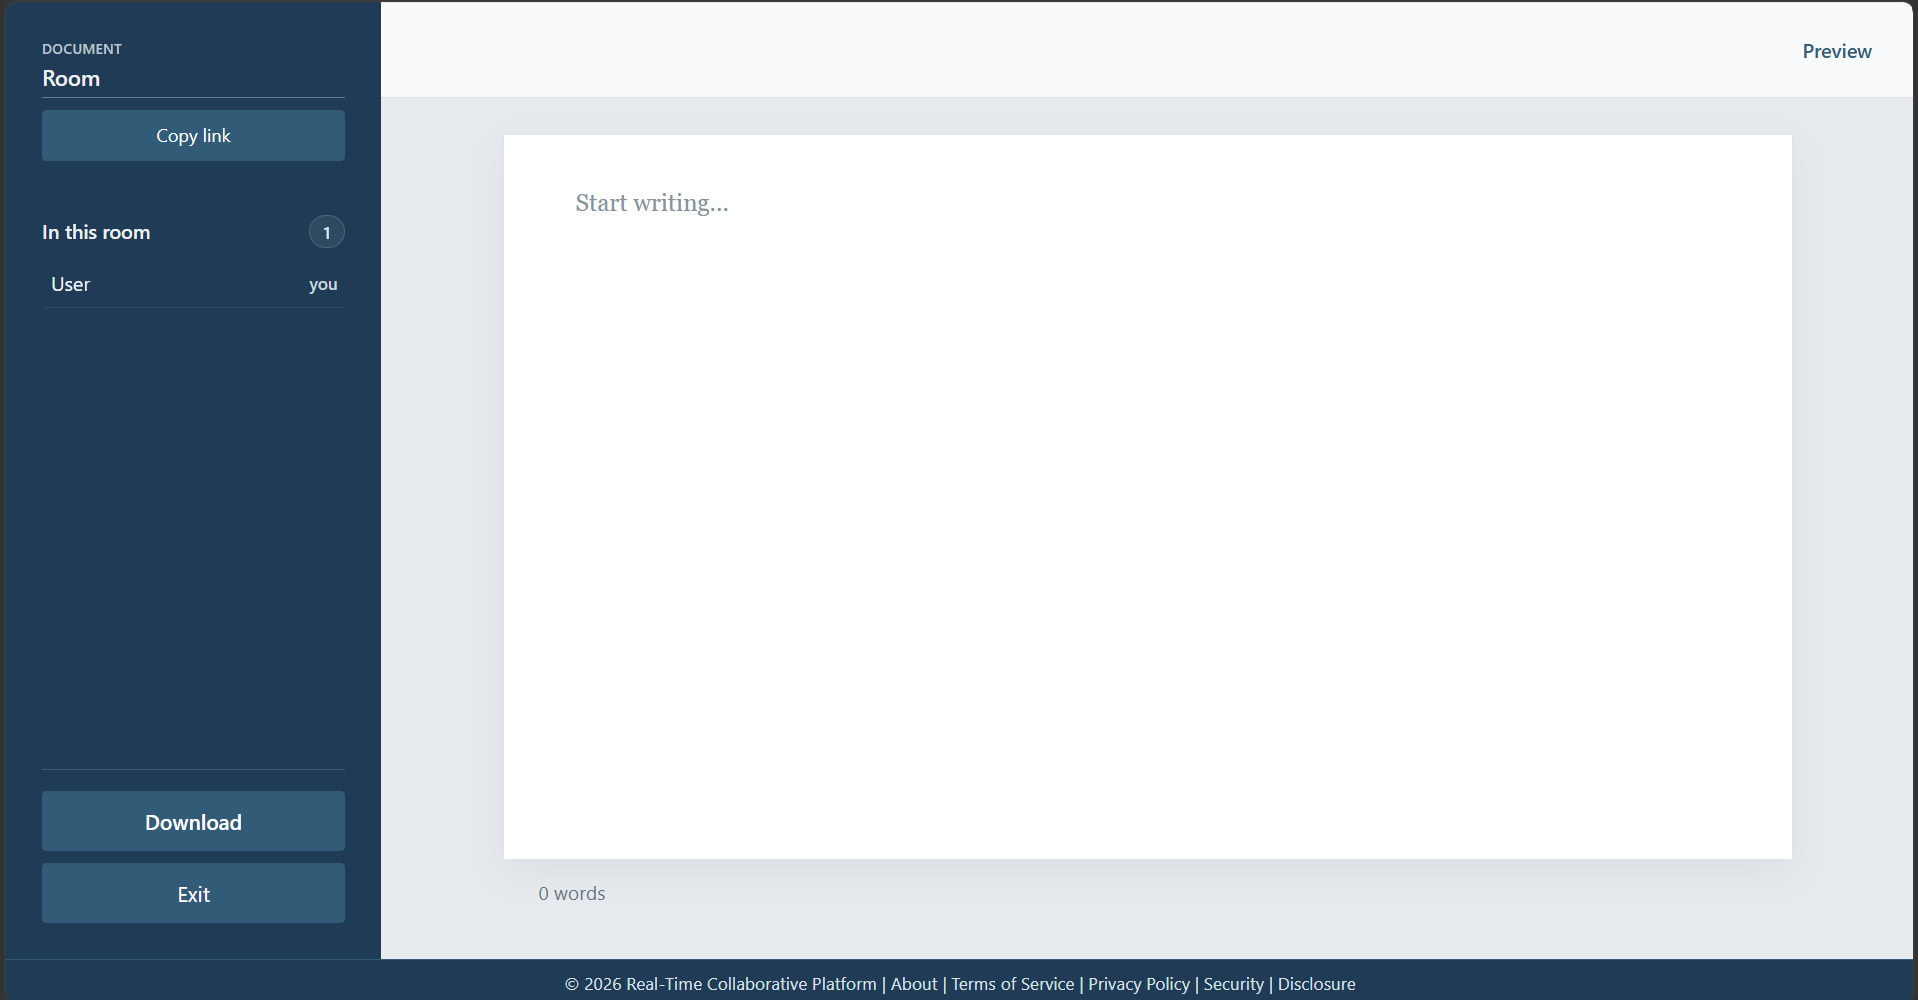
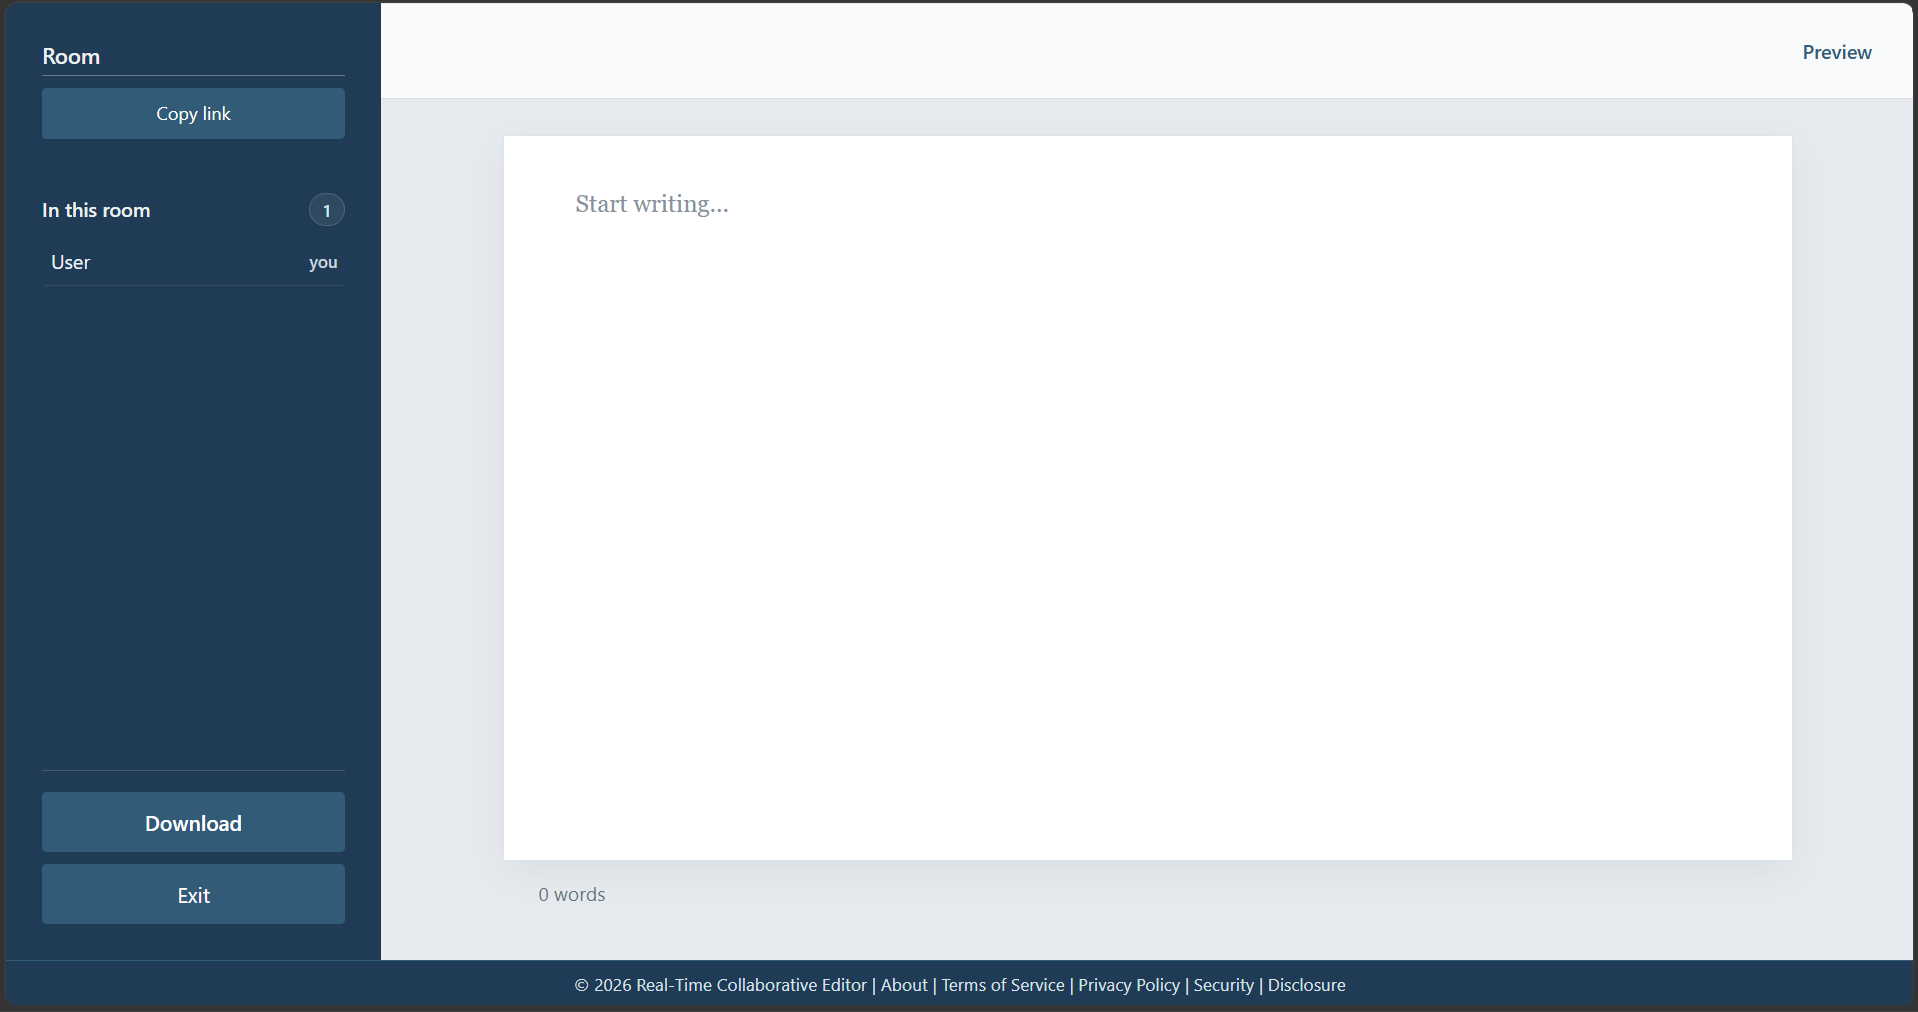
update user interface

diff --git a/frontend/dist/assets/index-wc3tE3-Q.js b/frontend/dist/assets/index-wc3tE3-Q.js
@@ -109,4 +109,4 @@ ${n.toString()}`)};class RI{constructor(t){this.patterns=[],this.$state=t}if(t,n
         table { border-collapse: collapse; width: 100%; }
         th, td { border: 1px solid #b8bec4; padding: .4em .6em; text-align: left; }
         img { max-width: 100%; }
-      </style></head><body>${Ve}</body></html>`),he.document.close()},Kt=M=>{Ee.current&&(Ee.current.style.transform=`translateY(-${M.currentTarget.scrollTop}px)`)},vn=M=>{O.current&&P0(O.current,"title",M.target.value)},ir=async()=>{const M=new URL(window.location.href);M.searchParams.set("room",i);try{await navigator.clipboard.writeText(M.toString()),D("Link copied")}catch{D("Copy unavailable")}window.setTimeout(()=>D(""),2e3)};return e?$.jsxs("div",{className:"editor-container",children:[$.jsxs("div",{className:"sidebar",children:[$.jsxs("div",{className:"sidebar-header",children:[$.jsx("div",{className:"room-info",children:$.jsxs("div",{children:[$.jsx("p",{className:"eyebrow",children:"DOCUMENT"}),$.jsx("input",{className:"sidebar-title-input",value:u,onChange:vn,"aria-label":"Document title",placeholder:i,maxLength:120,disabled:!n})]})}),$.jsx("button",{className:"share-button",onClick:ir,children:S||"Copy link"})]}),$.jsxs("div",{className:"presence-heading",children:[$.jsx("h3",{children:"In this room"}),$.jsx("span",{children:h.length})]}),$.jsx("ul",{className:"user-list",children:h.map(({socketId:M,userName:he})=>$.jsxs("li",{children:[$.jsx("span",{className:"presence-name",children:he}),M===Re.id&&$.jsx("span",{className:"you-label",children:"you"})]},M))}),$.jsx("p",{className:"typing-indicator","aria-live":"polite",children:_}),$.jsxs("div",{className:"sidebar-bottom-actions",children:[$.jsx("button",{className:"download-document-button",onClick:fe,disabled:!n,children:"Download"}),$.jsx("button",{className:"leave-button",onClick:v,children:"Exit"})]})]}),$.jsxs("div",{className:"editor-wrapper",children:[$.jsx("header",{className:"document-toolbar",children:$.jsxs("div",{className:"document-actions",children:[$.jsx("button",{className:"preview-toggle-button","aria-pressed":E,onClick:()=>T(M=>!M),children:E?"Edit":"Preview"}),$.jsx("span",{className:"save-status visually-hidden","aria-live":"polite",children:A})]})}),$.jsxs("main",{className:"document-page",ref:B,children:[E?$.jsx("article",{className:"markdown-preview","aria-label":"Markdown preview",children:c?$.jsx(C0,{remarkPlugins:[L0],children:c}):$.jsx("p",{className:"preview-empty",children:"Nothing to preview yet."})}):$.jsxs("div",{className:"document-editor",style:x?{height:`${x}px`}:void 0,children:[u$({content:c,cursors:p,sharedDoc:O.current,localSocketId:Re.id,contentRef:Ee}),$.jsx("textarea",{className:"document-canvas",ref:_e,value:c,onChange:Le,onSelect:M=>wt(M.currentTarget.selectionStart,M.currentTarget.selectionEnd),onKeyUp:M=>wt(M.currentTarget.selectionStart,M.currentTarget.selectionEnd),onScroll:Kt,placeholder:"Start writing...","aria-label":"Shared document content",spellCheck:"true",disabled:!n}),$.jsx("div",{className:"document-measure",ref:P,"aria-hidden":"true",children:c})]}),$.jsxs("footer",{className:"document-footer",children:[$.jsxs("span",{children:[c.trim()?c.trim().split(/\s+/).length:0," words"]}),$.jsx("span",{children:_})]})]})]}),$.jsx("footer",{className:"app-footer",children:$.jsx("span",{children:"© 2026 Real-Time Collaborative Platform | About | Terms of Service | Privacy Policy | Security | Disclosure"})})]}):$.jsxs("div",{className:"join-container",children:[$.jsxs("header",{className:"join-topbar",children:[$.jsx("a",{className:"join-brand",href:"/","aria-label":"Real-Time Collaborative Platform home",children:$.jsx("span",{children:"Real-Time Collaborative Platform"})}),$.jsx("a",{className:"join-contact",href:"",children:"Contact"})]}),$.jsxs("main",{className:"join-content",children:[$.jsxs("section",{className:"join-intro","aria-labelledby":"join-title",children:[$.jsxs("h1",{id:"join-title",className:"join-title",children:["A platform for",$.jsx("br",{}),"teams to create."]}),$.jsx("p",{className:"join-description",children:"Online platform where you can write, edit, and save documents with your team."})]}),$.jsxs("form",{className:"join-form",onSubmit:M=>{M.preventDefault(),ne()},children:[$.jsx("h2",{children:"Enter room"}),$.jsx("label",{className:"visually-hidden",htmlFor:"room-name",children:"Room"}),$.jsx("input",{id:"room-name",type:"text",placeholder:"Room",value:i,onChange:M=>l(M.target.value),autoComplete:"off"}),$.jsx("label",{className:"visually-hidden",htmlFor:"user-name",children:"Name"}),$.jsx("input",{id:"user-name",type:"text",placeholder:"Name",value:o,onChange:M=>s(M.target.value),autoComplete:"name"}),m&&$.jsx("p",{role:"alert",children:m}),$.jsx("button",{type:"submit",children:"Enter"})]})]}),$.jsx("footer",{className:"join-footer",children:$.jsx("span",{children:"© 2026 Real-Time Collaborative Platform | About | Terms of Service | Privacy Policy | Security | Disclosure"})})]})};Yk(document.getElementById("root")).render($.jsx(se.StrictMode,{children:$.jsx(a$,{})}));
+      </style></head><body>${Ve}</body></html>`),he.document.close()},Kt=M=>{Ee.current&&(Ee.current.style.transform=`translateY(-${M.currentTarget.scrollTop}px)`)},vn=M=>{O.current&&P0(O.current,"title",M.target.value)},ir=async()=>{const M=new URL(window.location.href);M.searchParams.set("room",i);try{await navigator.clipboard.writeText(M.toString()),D("Link copied")}catch{D("Copy unavailable")}window.setTimeout(()=>D(""),2e3)};return e?$.jsxs("div",{className:"editor-container",children:[$.jsxs("div",{className:"sidebar",children:[$.jsxs("div",{className:"sidebar-header",children:[$.jsx("div",{className:"room-info",children:$.jsx("div",{children:$.jsx("input",{className:"sidebar-title-input",value:u,onChange:vn,"aria-label":"Document title",placeholder:i,maxLength:120,disabled:!n})})}),$.jsx("button",{className:"share-button",onClick:ir,children:S||"Copy link"})]}),$.jsxs("div",{className:"presence-heading",children:[$.jsx("h3",{children:"In this room"}),$.jsx("span",{children:h.length})]}),$.jsx("ul",{className:"user-list",children:h.map(({socketId:M,userName:he})=>$.jsxs("li",{children:[$.jsx("span",{className:"presence-name",children:he}),M===Re.id&&$.jsx("span",{className:"you-label",children:"you"})]},M))}),$.jsx("p",{className:"typing-indicator","aria-live":"polite",children:_}),$.jsxs("div",{className:"sidebar-bottom-actions",children:[$.jsx("button",{className:"download-document-button",onClick:fe,disabled:!n,children:"Download"}),$.jsx("button",{className:"leave-button",onClick:v,children:"Exit"})]})]}),$.jsxs("div",{className:"editor-wrapper",children:[$.jsx("header",{className:"document-toolbar",children:$.jsxs("div",{className:"document-actions",children:[$.jsx("button",{className:"preview-toggle-button","aria-pressed":E,onClick:()=>T(M=>!M),children:E?"Edit":"Preview"}),$.jsx("span",{className:"save-status visually-hidden","aria-live":"polite",children:A})]})}),$.jsxs("main",{className:"document-page",ref:B,children:[E?$.jsx("article",{className:"markdown-preview","aria-label":"Markdown preview",children:c?$.jsx(C0,{remarkPlugins:[L0],children:c}):$.jsx("p",{className:"preview-empty",children:"Nothing to preview yet."})}):$.jsxs("div",{className:"document-editor",style:x?{height:`${x}px`}:void 0,children:[u$({content:c,cursors:p,sharedDoc:O.current,localSocketId:Re.id,contentRef:Ee}),$.jsx("textarea",{className:"document-canvas",ref:_e,value:c,onChange:Le,onSelect:M=>wt(M.currentTarget.selectionStart,M.currentTarget.selectionEnd),onKeyUp:M=>wt(M.currentTarget.selectionStart,M.currentTarget.selectionEnd),onScroll:Kt,placeholder:"Start writing...","aria-label":"Shared document content",spellCheck:"true",disabled:!n}),$.jsx("div",{className:"document-measure",ref:P,"aria-hidden":"true",children:c})]}),$.jsxs("footer",{className:"document-footer",children:[$.jsxs("span",{children:[c.trim()?c.trim().split(/\s+/).length:0," words"]}),$.jsx("span",{children:_})]})]})]}),$.jsx("footer",{className:"app-footer",children:$.jsx("span",{children:"© 2026 Real-Time Collaborative Editor | About | Terms of Service | Privacy Policy | Security | Disclosure"})})]}):$.jsxs("div",{className:"join-container",children:[$.jsxs("header",{className:"join-topbar",children:[$.jsx("a",{className:"join-brand",href:"/","aria-label":"Real-Time Collaborative Editor home",children:$.jsx("span",{children:"Real-Time Collaborative Editor"})}),$.jsx("a",{className:"join-contact",href:"",children:"Contact"})]}),$.jsxs("main",{className:"join-content",children:[$.jsxs("section",{className:"join-intro","aria-labelledby":"join-title",children:[$.jsxs("h1",{id:"join-title",className:"join-title",children:["An editor for",$.jsx("br",{}),"teams to document."]}),$.jsx("p",{className:"join-description",children:"Where you can write and edit documents with your team."})]}),$.jsxs("form",{className:"join-form",onSubmit:M=>{M.preventDefault(),ne()},children:[$.jsx("h2",{children:"Enter room"}),$.jsx("label",{className:"visually-hidden",htmlFor:"room-name",children:"Room"}),$.jsx("input",{id:"room-name",type:"text",placeholder:"Room",value:i,onChange:M=>l(M.target.value),autoComplete:"off"}),$.jsx("label",{className:"visually-hidden",htmlFor:"user-name",children:"Name"}),$.jsx("input",{id:"user-name",type:"text",placeholder:"Name",value:o,onChange:M=>s(M.target.value),autoComplete:"name"}),m&&$.jsx("p",{role:"alert",children:m}),$.jsx("button",{type:"submit",children:"Enter"})]})]}),$.jsx("footer",{className:"join-footer",children:$.jsx("span",{children:"© 2026 Real-Time Collaborative Editor | About | Terms of Service | Privacy Policy | Security | Disclosure"})})]})};Yk(document.getElementById("root")).render($.jsx(se.StrictMode,{children:$.jsx(a$,{})}));

diff --git a/frontend/src/App.jsx b/frontend/src/App.jsx
@@ -409,10 +409,10 @@ const App = () => {
     return (
       <div className="join-container">
         <header className="join-topbar">
-          <a className="join-brand" href="/" aria-label="Real-Time Collaborative Platform home">
-            <span>Real-Time Collaborative Platform</span>
+          <a className="join-brand" href="/" aria-label="Real-Time Collaborative Editor home">
+            <span>Real-Time Collaborative Editor</span>
           </a>
-          <a className="join-contact" href="">
+          <a className="join-contact" href="https://github.com/mohamedaradaib/Real-Time-Collaborative-Editor">
             Contact
           </a>
         </header>
@@ -420,9 +420,9 @@ const App = () => {
         <main className="join-content">
           <section className="join-intro" aria-labelledby="join-title">
             <h1 id="join-title" className="join-title">
-                A platform for
+                An editor for
                 <br />
-                teams to create.
+                teams to document.
             </h1>
             <p className="join-description">
               Where you can write and edit documents with your team.
@@ -436,7 +436,7 @@ const App = () => {
               joinRoom();
             }}
           >
-            <h2>Enter room</h2>
+            <h2>Welcome</h2>
             <label className="visually-hidden" htmlFor="room-name">Room</label>
             <input
               id="room-name"
@@ -461,7 +461,7 @@ const App = () => {
         </main>
 
         <footer className="join-footer">
-          <span>© 2026 Real-Time Collaborative Platform | About | Terms of Service | Privacy Policy | Security | Disclosure</span>
+          <span>© 2026 Real-Time Collaborative Editor | About | Terms of Service | Privacy Policy | Security | Disclosure</span>
         </footer>
       </div>
     );
@@ -473,7 +473,6 @@ const App = () => {
         <div className="sidebar-header">
           <div className="room-info">
             <div>
-              <p className="eyebrow">DOCUMENT</p>
               <input
                 className="sidebar-title-input"
                 value={title}
@@ -579,7 +578,7 @@ const App = () => {
         </main>
       </div>
       <footer className="app-footer">
-        <span>© 2026 Real-Time Collaborative Platform | About | Terms of Service | Privacy Policy | Security | Disclosure</span>
+        <span>© 2026 Real-Time Collaborative Editor | About | Terms of Service | Privacy Policy | Security | Disclosure</span>
       </footer>
     </div>
   );

diff --git a/frontend/dist/index.html b/frontend/dist/index.html
@@ -3,8 +3,8 @@
   <head>
     <meta charset="UTF-8" />
     <meta name="viewport" content="width=device-width, initial-scale=1.0" />
-    <title>Real-Time Collaborative Platform</title>
-    <script type="module" crossorigin src="/assets/index-C0bPQX9o.js"></script>
+    <title>Real-Time Collaborative Editor</title>
+    <script type="module" crossorigin src="/assets/index-wc3tE3-Q.js"></script>
     <link rel="stylesheet" crossorigin href="/assets/index-EruSX3Er.css">
   </head>
   <body>  

diff --git a/frontend/index.html b/frontend/index.html
@@ -3,7 +3,7 @@
   <head>
     <meta charset="UTF-8" />
     <meta name="viewport" content="width=device-width, initial-scale=1.0" />
-    <title>Real-Time Collaborative Platform</title>
+    <title>Real-Time Collaborative Editor</title>
   </head>
   <body>  
     <div id="root"></div>

diff --git a/README.md b/README.md
@@ -1,13 +1,13 @@
-# Real-Time Collaborative Platform
+# Real-Time Collaborative Editor
 
-Real time browser-based collaborative platform where multiple users can join a room and text, edit, and review documents together in real time.
+A real-time collaborative editor designed for multi-user collaboration and seamless team workflows.
 
 ## Features
-- Real-time collaborative workspace with concurrent changes merged automatically
-- Room-based sessions with active user presence, typing indicators, live cursors, and selection highlights
-- Markdown writing and rendered preview with GitHub-flavored syntax
-- Shared document titles, automatic persistence, PDF export, word count, and copyable room links
-- Persistent document titles and content for each room
+- Live Markdown editing with concurrent changes merged automatically
+- Room-based collaboration with participant presence, typing indicators, live cursors, and selection highlights
+- Shared document titles and content, automatically saved for each room
+- GitHub-flavored Markdown preview, word count, and PDF export through the browser's print dialog
+- Copyable room links for inviting collaborators
 
 ## Tech Stack
 - JavaScript
@@ -23,7 +23,7 @@ Real time browser-based collaborative platform where multiple users can join a r
 - React Markdown
 
 ## How It Works
-The Markdown writing canvas and title are bound to a shared Yjs document. Yjs merges concurrent edits, and Socket.IO synchronizes document updates and room presence between users. Relative cursor positions and selections are broadcast to room members and removed when a user leaves; cursor presence is temporary and is not stored. The backend stores each room's title and content in SQLite and automatically saves edits, acknowledging writes so the editor can show save status. The sidebar can export the current document as a PDF through the browser's print dialog. Existing rooms are migrated from their saved source code without losing text. Copying a room link includes the room name, which is prefilled for invitees. Rooms do not require sign-in, so anyone who knows a room name can join; do not use private or sensitive content, and only deploy this application where you trust the users who can access it.
+The document title and Markdown canvas are bound to a shared Yjs document. Yjs merges concurrent edits, while Socket.IO synchronizes document updates and room presence. The sidebar shows the editable document title, participants, and sharing controls without a separate “DOCUMENT” heading. The backend saves each room's title and content in SQLite. Cursor positions, selections, and typing status are temporary and are removed when collaborators leave. The Markdown preview supports GitHub-flavored syntax, and PDF export uses the browser's print dialog. Copying a room link includes the room name for invitees. Rooms do not require sign-in, so anyone who knows a room name can join; do not use private or sensitive content, and only deploy this application where you trust the users who can access it.
 
 ## Getting Started
 ### Prerequisites
@@ -57,10 +57,10 @@ npm start
 npm --prefix frontend run dev -- --host 0.0.0.0
 ```
 
-Then open the vite localhost url `http://localhost:5173`
+Open the Vite localhost url `http://localhost:5173`
 
 ## Live Demo
-[https://real-time-collaborative-platfrom-production.up.railway.app/](https://real-time-collaborative-platfrom-production.up.railway.app/)
+[https://real-time-collaborative-editor-production.up.railway.app/](https://real-time-collaborative-editor-production.up.railway.app/)
 
 ## Screenshots
 ![alt text](image.png)
